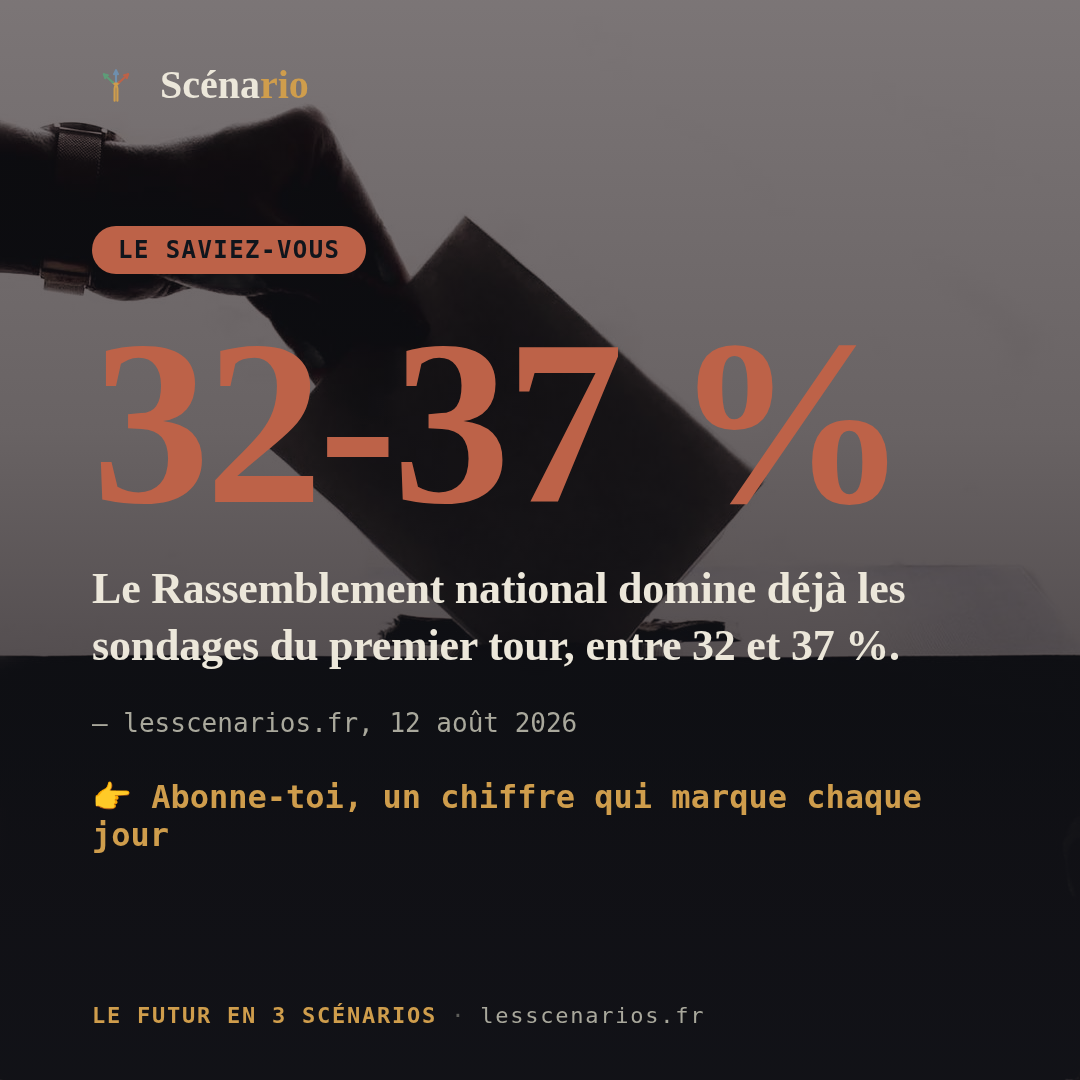
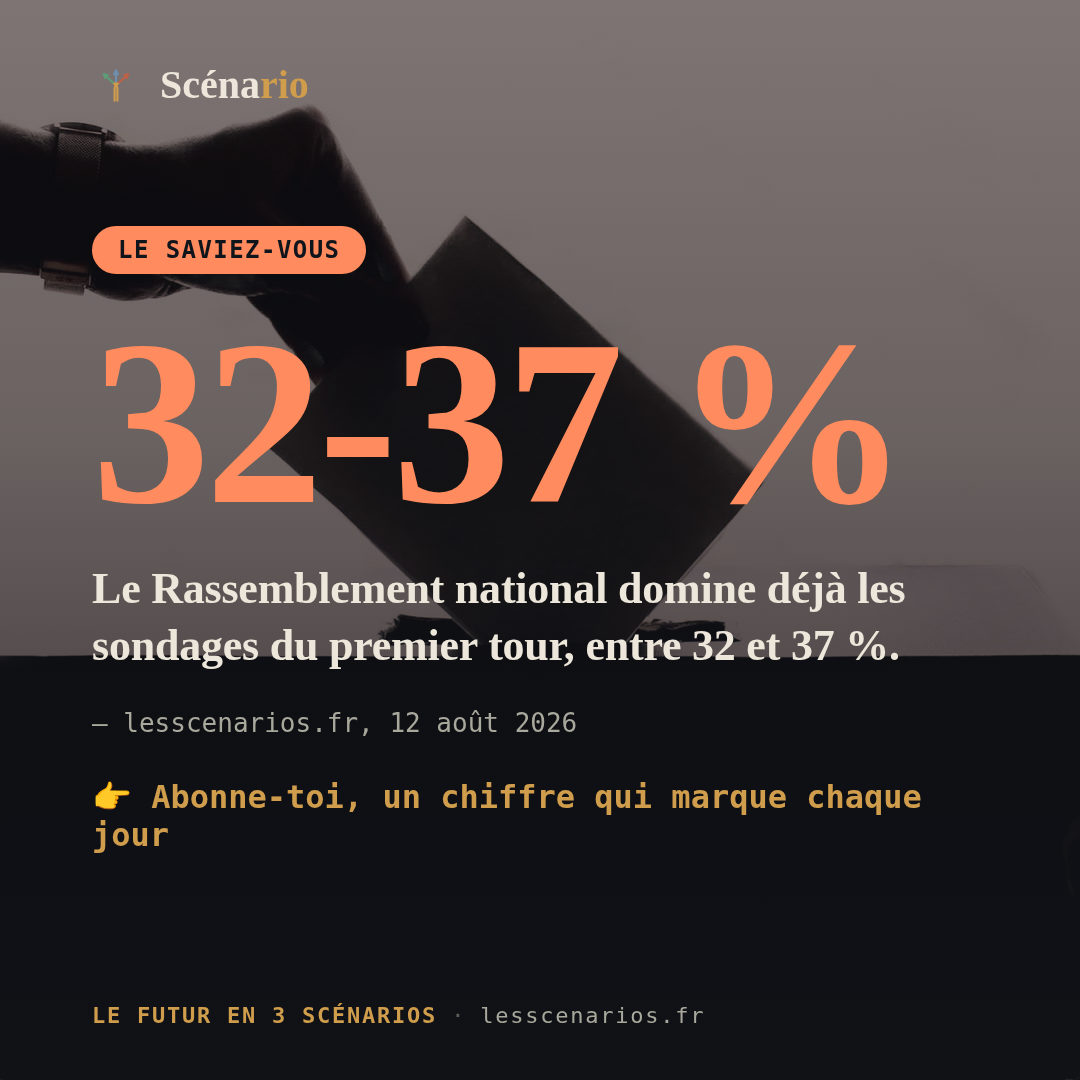
[design] Éclaircit la couleur "chiffre" (--stat) pour plus de contraste sur fond sombre
Retour utilisateur sur chiffre-2026-08-17 : le terracotta d'origine
(#bd6248) manquait de contraste, surtout sur les photos claires où le
scrim laisse peu de fond sombre derrière le chiffre géant. Remplacé
par un corail plus lumineux (#ff8b5e) dans pub-template-v5-stat.html
(--stat) et, par cohérence de couleur documentée entre les deux
gabarits, pub-template-v4-hybride.html (--degrade). Contraste WCAG
contre un fond sombre : 4.4:1 → ~8:1.

Image déjà publiée le jour même régénérée avec la nouvelle couleur.

Claude-Session: https://claude.ai/code/session_01KGu4GBjPADwLUdUm9EsGBF

diff --git a/scripts/social/pub-template-v5-stat.html b/scripts/social/pub-template-v5-stat.html
@@ -11,8 +11,13 @@
     --gold: #cf9d4c;
     /* Même orange que l'accent "chiffre" déjà défini dans
        pub-template-v4-hybride.html (var(--degrade)) — cohérence de
-       couleur avec le reste du gabarit pub, même hors rotation photo. */
-    --stat: #bd6248;
+       couleur avec le reste du gabarit pub, même hors rotation photo.
+       Éclairci le 17 août (retour utilisateur : le ton d'origine,
+       #bd6248, manquait de contraste sur le fond déjà sombre — surtout
+       visible sur les photos claires où le chiffre géant se noyait
+       presque dans l'image). Contraste WCAG contre le fond sombre passé
+       de 4.4:1 à ~8:1. */
+    --stat: #ff8b5e;
   }
   *{ box-sizing: border-box; margin:0; padding:0; }
   html,body{ width:1080px; height:1080px; }

diff --git a/scripts/social/pub-template-v4-hybride.html b/scripts/social/pub-template-v4-hybride.html
@@ -11,7 +11,12 @@
     --gold: #cf9d4c;
     --stable: #6f8fae;
     --favorable: #5e9c78;
-    --degrade: #bd6248;
+    /* Éclairci le 17 août (même changement que --stat dans
+       pub-template-v5-stat.html, gabarit qui gère seul la catégorie
+       "chiffre" depuis le 15 août) — gardé synchronisé ici même si ce
+       template ne rend plus cette catégorie, pour que la note
+       "cohérence de couleur" du gabarit v5 reste vraie. */
+    --degrade: #ff8b5e;
     /* 5e couleur, réservée à la catégorie "futur" — même registre
        désaturé que les 4 autres, aucune n'était disponible pour une
        5e catégorie sans se marcher dessus. */

diff --git a/docs/ARCHITECTURE.md b/docs/ARCHITECTURE.md
@@ -2217,6 +2217,21 @@ moins prioritaire).
     jour (`chiffre` → l'édition source elle-même, seule catégorie sans
     page de destination fixe).
 
+  **[FAIT le 17 août] Couleur du chiffre géant éclaircie, trop peu de
+  contraste.** Retour utilisateur direct sur le premier post publié un
+  lundi (`chiffre-2026-08-17`) : le ton d'origine (`--stat: #bd6248`,
+  un terracotta assez sombre) se noyait dans le fond déjà sombre du
+  gabarit, surtout sur les photos claires (peu de scrim visible derrière
+  le chiffre). Remplacé par `#ff8b5e`, un corail plus lumineux — contraste
+  WCAG contre un fond sombre passé de 4.4:1 à ~8:1. Changé dans
+  `scripts/social/pub-template-v5-stat.html` (`--stat`, seul gabarit qui
+  rend réellement la catégorie `chiffre`) et, par cohérence, dans
+  `scripts/social/pub-template-v4-hybride.html` (`--degrade`, même
+  couleur documentée comme identique dans le commentaire du gabarit v5,
+  même si ce template ne rend plus `chiffre` depuis le 15 août).
+  L'image déjà publiée le jour même (`assets/social/pub/2026-08-17.png`)
+  a été régénérée avec la nouvelle couleur et recommittée.
+
   **[FAIT le 14 août] Sélection de la catégorie : cycle qui avance
   remplacé par une table jour → catégorie fixe.** Retour utilisateur
   direct : "voici le calendrier systématique, tu ne pourras pas te
